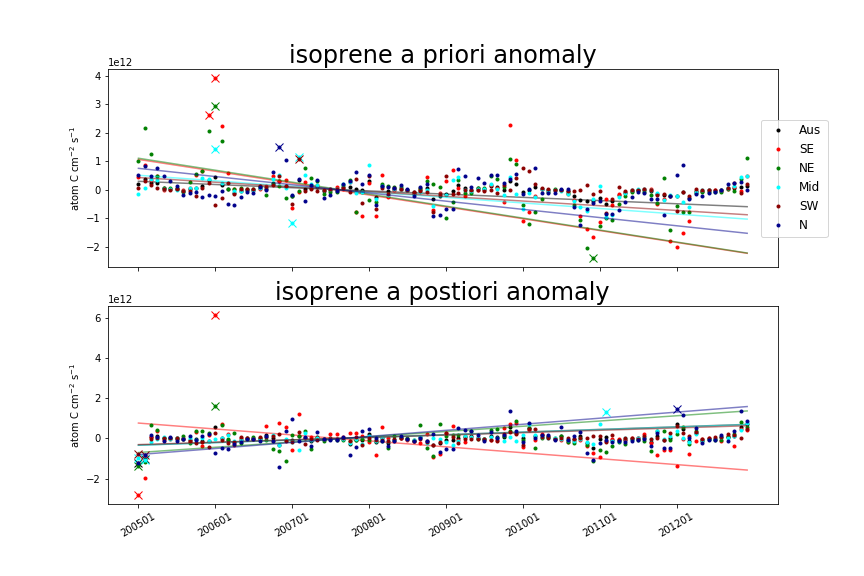
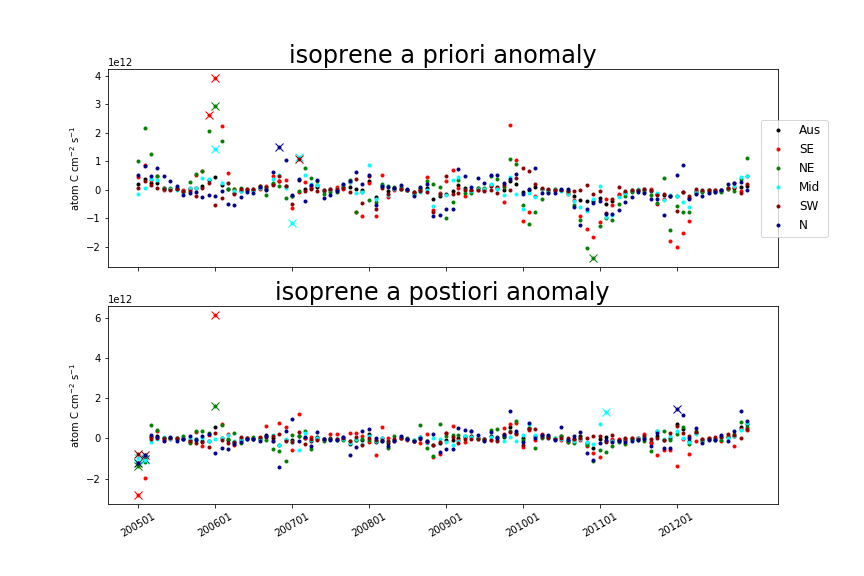
updated trend analysis code

Changed region(s): [[0.1562, 0.25, 0.875, 0.4375], [0.1562, 0.6875, 0.875, 0.8125]]

diff --git a/localtests.py b/localtests.py
@@ -17,7 +17,7 @@ plt.ioff()
 # local modules
 import utilities.utilities as util
 import utilities.plotting as pp
-from utilities.JesseRegression import RMA
+from utilities.JesseRegression import RMA, OLS
 from utilities import GMAO,GC_fio,fio, masks
 import Inversion
 import tests
@@ -70,6 +70,48 @@ start1=timeit.default_timer()
 ### DO STUFFS
 ##########
 
+def trend(data,dates,resample_monthly=True, remove_mya=True, remove_outliers=False):
+    '''
+        Take a time series, remove the multi year monthly average, determine trend
+            Also test significance of trend using students t test
+        
+    '''
+    monthly=np.copy(data)
+    months=util.list_months(dates[0],dates[-1])
+    
+    # resample if necessary    
+    if resample_monthly:
+        monthly = np.array(util.resample(monthly,dates,bins='M').mean()).squeeze()
+    
+    # first detrend if necessary
+    mya=None
+    anomaly=np.copy(monthly)
+    if remove_mya:
+        # use original data to get multi-year average
+        mya_df = util.multi_year_average(data, dates, grain='monthly')
+        mya = np.squeeze(np.array(mya_df.mean()))
+        anomaly = np.array([ monthly[i] - mya[i%12] for i in range(len(months)) ])
+    
+    outliers=None
+    X=np.arange(len(months))
+    Y=monthly
+    if remove_outliers:
+        
+        std=np.nanstd(anomaly)
+        mean=np.nanmean(anomaly)
+        outliers = ( anomaly > mean + 3 * std ) + ( anomaly < mean - 3*std )
+        X=X[~outliers]
+        Y=Y[~outliers]
+    # USE OLS FOR NOW....
+    slope, intercept, r, p, sterr = OLS(X,Y) #JesseRegression.OLS
+    
+    # TEST REGRESSION WAS SIGNIFICANT
+    
+    return {'anomaly':anomaly, 'monthly':monthly, 
+            'mya':mya, 'outliers':outliers,
+            'slope':slope, 'intercept':intercept,
+            'r':r, 'p':p, 'sterr':sterr}
+
 # TREND TESTS
 d0 = datetime(2005,1,1); d1=datetime(2012,12,31) # two years for now
 
@@ -77,6 +119,7 @@ d0 = datetime(2005,1,1); d1=datetime(2012,12,31) # two years for now
 regions=util.__subregions__
 colors = util.__subregions_colors__
 labels = util.__subregions_labels__
+n_regions = len(regions)
 
 # read apriori and postiori emissions
 enew = E_new(d0,d1,dkeys=['E_MEGAN','E_PP_lr'])
@@ -97,35 +140,61 @@ titles=['isoprene a priori anomaly', 'isoprene a postiori anomaly']
 unitss=['atom C cm$^{-2}$ s$^{-1}$','atom C cm$^{-2}$ s$^{-1}$']
 for j, (arr,title,units) in enumerate(zip([apri, apos],titles,unitss)):
     mya_df = util.multi_year_average_regional(arr, dates, lats, lons, grain='monthly', regions=regions)
-    mya = [np.squeeze(np.array(mya_df['df'][i].mean())) for i in range(len(regions))]
+    mya = [np.squeeze(np.array(mya_df['df'][i].mean())) for i in range(n_regions)]
+    # pull out subregions, keeping lats and lons
     regional, lats_regional, lons_regional = util.pull_out_subregions(arr,lats,lons,subregions=regions)
-    monthly = [ np.array(util.resample(np.nanmean(regional[i],axis=(1,2)),dates,bins='M').mean()).squeeze() for i in range(len(regions))]
-    anomaly = [ np.array([ monthly[k][i] - mya[k][i%12] for i in range(len(months)) ]) for k in range(len(regions)) ]
+    
+    # average spatial dims into monthly time series
+    regional_ts = [ np.nanmean(regional[i], axis=(1,2)) for i in range(n_regions) ]
+    
+    # get trend
+    trends = [ trend(regional_ts[i], dates, remove_mya=True, resample_monthly=True, remove_outliers=True) for i in range(n_regions) ]
+    
+    #anomaly = [ trends[i]['anomaly'] for i in range(n_regions) ]
+    #monthly = [ trends[i]['monthly'] for i in range(n_regions) ]
+    
+    #monthly = [ np.array(util.resample(np.nanmean(regional[i],axis=(1,2)),dates,bins='M').mean()).squeeze() for i in range(len(regions))]
+    #anomaly = [ np.array([ old_monthly[k][i] - mya[k][i%12] for i in range(len(months)) ]) for k in range(len(regions)) ]
     
     plt.sca(axes[j])
     print(title)
-    print('region, slope bounds')
-    for monthly_anomaly, monthly_data, color, label in zip(anomaly, monthly, colors, labels):
-        #print(color, label)
+    print('region, [ slope, regression coeff, p value for slope non zero]')
+    for i in range(n_regions):
+    #for monthly_anomaly, monthly_data, color, label in zip(anomaly, monthly, colors, labels):
+        color=colors[i]; label=labels[i]
+        
+        trendi=trends[i]
+        anomaly = trendi['anomaly']
+        monthly = trendi['monthly']
 
-        # Calculate with all data (for interest)        
-        m, b, r, cir, cijm = RMA(np.arange(len(months)), monthly_anomaly)
-        print("%s (has outliers) &  [ %.2e,  %.2e ]   & \\"%(label,cir[0][0], cir[0][1]))
+        # Calculate with all data (for interest)
+        #m, b, r, cir, cijm = RMA(np.arange(len(months)), monthly_anomaly)
+        #print("%s (has outliers) &  [ %.2e,  %.2e ]   & \\"%(label,cir[0][0], cir[0][1]))
+        
+        # Y = mX+b
+        m=trendi['slope']
+        b=trendi['intercept']
+        r=trendi['r']
+        p=trendi['p'] # two sided p value against slope being zero as H0
+        outliers=trendi['outliers']
+        
+        print("%s &  [ m=%.2e,  r=%.3f, p=%.3f ]   & \\"%(label,m, r, p))
         
         # once more with outliers removed
-        std=np.nanstd(monthly_anomaly)
-        mean=np.nanmean(monthly_anomaly)
-        outliers = ( monthly_anomaly > mean + 3 * std ) + ( monthly_anomaly < mean - 3*std )
-        Xin = np.arange(len(months))[~outliers]
-        Yin = monthly_anomaly[~outliers]
+        #std=np.nanstd(monthly_anomaly)
+        #mean=np.nanmean(monthly_anomaly)
+        #outliers = ( monthly_anomaly > mean + 3 * std ) + ( monthly_anomaly < mean - 3*std )
+        #Xin = np.arange(len(months))[~outliers]
+        #Yin = monthly_anomaly[~outliers]
         
-        m, b, r, cir, cijm = RMA(Xin, Yin)
-        print("%s (no outliers)  &  [ %.2e,  %.2e ]   & \\"%(label,cir[0][0], cir[0][1]))
-        print(m/np.nanmean(monthly_data) * 12)
-        if cir[0][0] * cir[0][1] > 0: # if slope doesn't surround zero then we plot line
+        #m, b, r, cir, cijm = RMA(Xin, Yin)
+        #print("%s (no outliers)  &  [ %.2e,  %.2e ]   & \\"%(label,cir[0][0], cir[0][1]))
+        #print(m/np.nanmean(monthly_data) * 12)
+        #if cir[0][0] * cir[0][1] > 0: # if slope doesn't surround zero then we plot line
+        if p < 0.05:
             pp.plot_time_series( [months[0], months[-1]], [b, m*(len(months)-1)], alpha=0.5, color=color ) # regression line
-        pp.plot_time_series( months, monthly_anomaly, color=color, label=label, marker='.', markersize=6, linewidth=0) # regression line
-        pp.plot_time_series( np.array(months)[outliers], monthly_anomaly[outliers], color=color, marker='x', markersize=8, linewidth=0)
+        pp.plot_time_series( months, anomaly, color=color, label=label, marker='.', markersize=6, linewidth=0) # regression line
+        pp.plot_time_series( np.array(months)[outliers], anomaly[outliers], color=color, marker='x', markersize=8, linewidth=0)
     plt.title(title,fontsize=24)
     plt.ylabel(units)
     plt.xticks(util.list_years(d0,d1))

diff --git a/utilities/JesseRegression.py b/utilities/JesseRegression.py
@@ -19,6 +19,12 @@ def OLS(X, Y):
     Assumes Y may have error, while X does not
     uses scipy.stats.linregress
     returns slope, intercept, r, p, sterr
+        
+        #pvalue : float
+        #two-sided p-value for a hypothesis test whose null hypothesis is
+        #that the slope is zero, using Wald Test with t-distribution of
+        #the test statistic.
+    
     '''
     return stats.linregress(X,Y)
 
